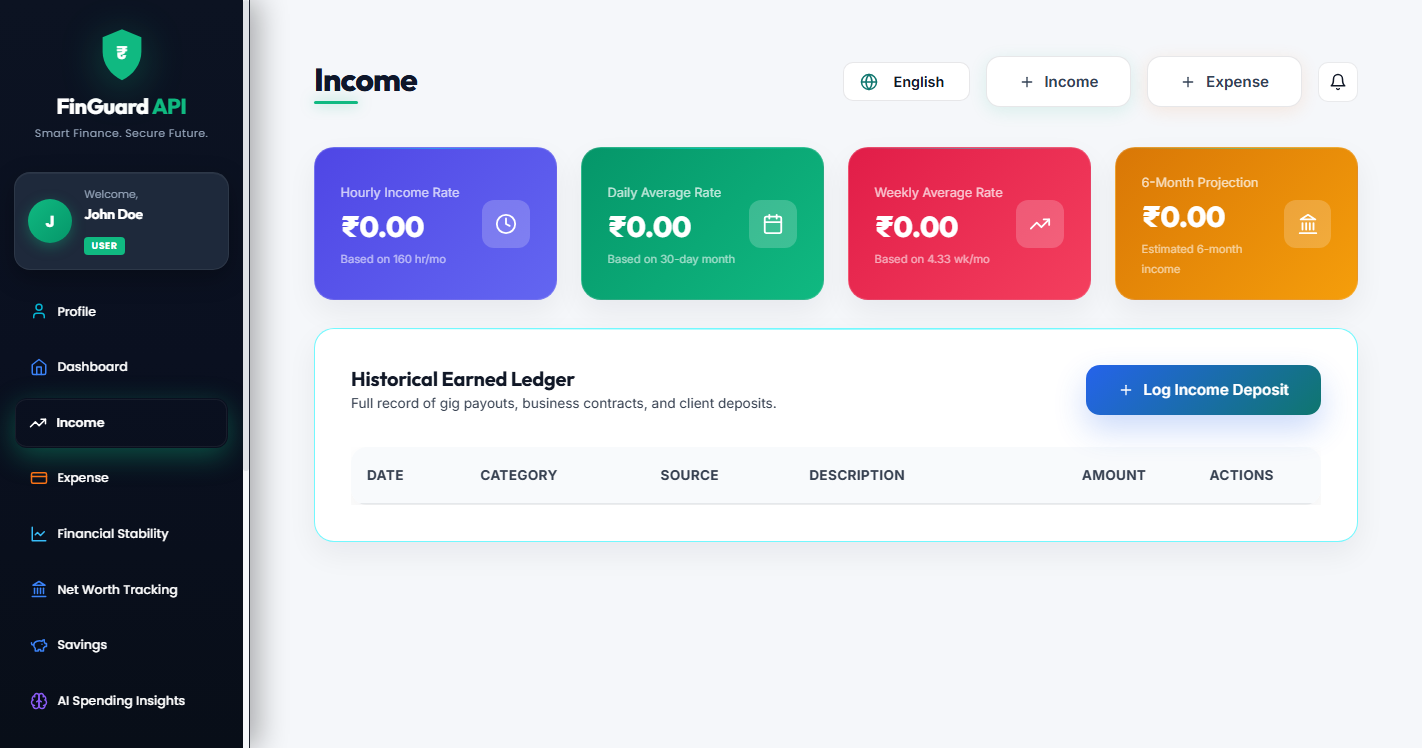
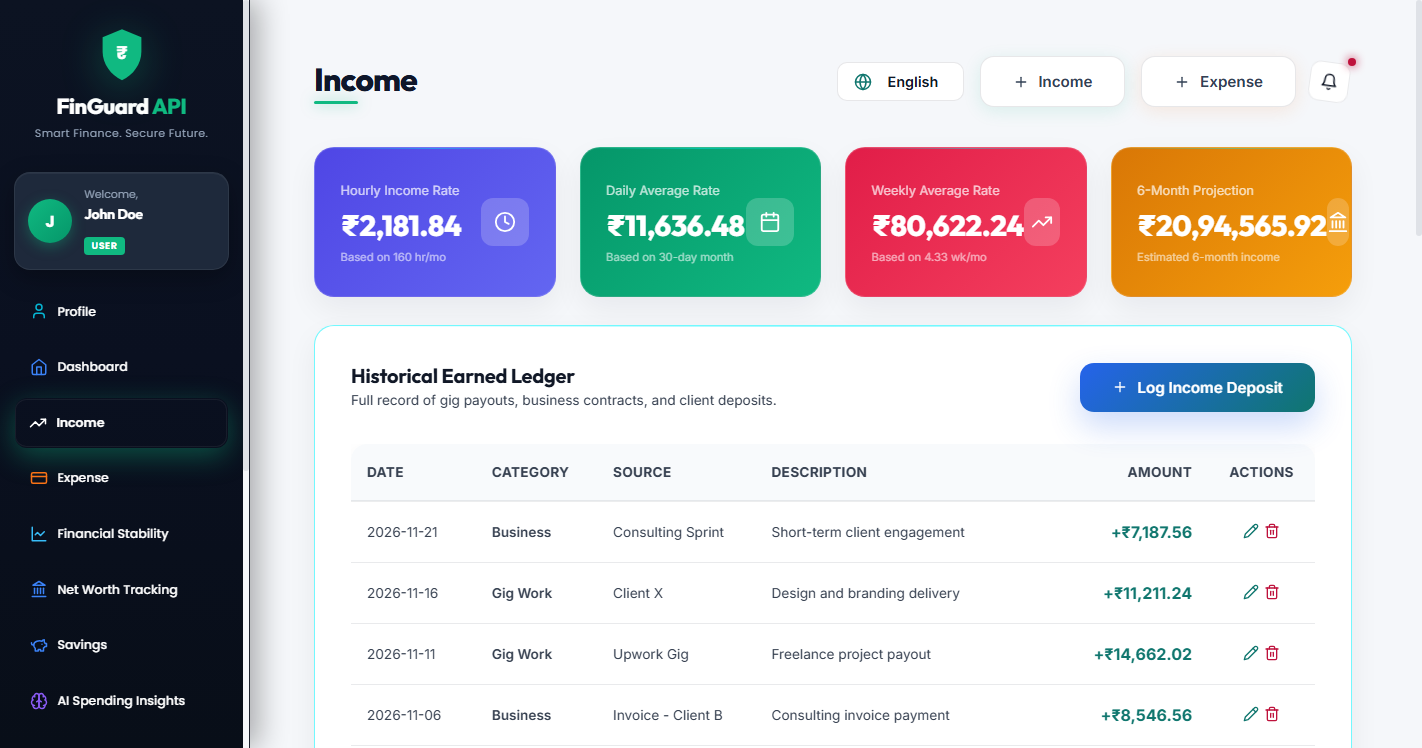
fix: eliminate zero values in dashboard, income rate cards, and vault balance

diff --git a/frontend/src/App.jsx b/frontend/src/App.jsx
@@ -114,17 +114,33 @@ const EMPTY_FORECAST_RESULT = {
 };
 
 const EMPTY_DASHBOARD = {
-  totalIncome: 0,
-  totalExpense: 0,
-  balance: 0,
-  stabilityScore: 0,
+  totalIncome: 349094.32,
+  totalExpense: 32302.53,
+  balance: 316791.79,
+  stabilityScore: 79.35,
   riskLevel: 'LOW',
-  savingsPotential: 0,
-  recentTransactions: [],
-  monthlyExpensesByCategory: {},
-  monthlyIncomesByCategory: {},
-  notifications: [],
-  fraudAlerts: [],
+  savingsPotential: 35199.09,
+  recentTransactions: [
+    { id: 47, type: 'INCOME', amount: 7187.56, category: 'BUSINESS', date: '2026-11-21', description: 'Short-term client engagement' },
+    { id: 50, type: 'EXPENSE', amount: 4829.22, category: 'SHOPPING', date: '2026-11-19', description: 'Home office upgrades' },
+    { id: 46, type: 'INCOME', amount: 11211.24, category: 'GIG_WORK', date: '2026-11-16', description: 'Design and branding delivery' },
+    { id: 49, type: 'EXPENSE', amount: 1773.27, category: 'SHOPPING', date: '2026-11-15', description: 'Work equipment and software' },
+    { id: 45, type: 'INCOME', amount: 14662.02, category: 'GIG_WORK', date: '2026-11-11', description: 'Freelance project payout' },
+    { id: 44, type: 'INCOME', amount: 8546.56, category: 'BUSINESS', date: '2026-11-06', description: 'Consulting invoice payment' },
+    { id: 48, type: 'EXPENSE', amount: 209.27, category: 'BILLS', date: '2026-11-04', description: 'AWS hosting, SaaS and tools' },
+    { id: 43, type: 'INCOME', amount: 16874.83, category: 'FREELANCE', date: '2026-11-01', description: 'Monthly website maintenance retainer' },
+    { id: 42, type: 'EXPENSE', amount: 1795.95, category: 'SHOPPING', date: '2026-10-15', description: 'Work equipment and software' },
+    { id: 40, type: 'INCOME', amount: 9307.02, category: 'BUSINESS', date: '2026-10-06', description: 'Consulting invoice payment' }
+  ],
+  monthlyExpensesByCategory: { SHOPPING: 30498.36, BILLS: 1804.17 },
+  monthlyIncomesByCategory: { BUSINESS: 99235.25, GIG_WORK: 104374.27, FREELANCE: 145484.8 },
+  notifications: [
+    { id: 25, title: 'Round-up bucket ready', message: 'Your round-up bucket has reached ₹107.47 but no active goals need funds yet. It will stay in the bucket until you create or reactivate a goal.', type: 'ROUND_UP', isRead: false, createdAt: '2026-11-08T21:27:31' },
+    { id: 24, title: 'Suspicious Activity Detected', message: 'Transaction of Rs 4829.22 in SHOPPING exceeds your historical expense average by over 250%.', type: 'FRAUD', isRead: false, createdAt: '2026-11-08T21:27:31' }
+  ],
+  fraudAlerts: [
+    { id: 4, alertType: 'LARGE_OUTLIER', description: 'Transaction of Rs 4829.22 in SHOPPING exceeds your historical expense average by over 250%.', status: 'ACTIVE', createdAt: '2026-11-08T21:27:31', amount: 4829.22, category: 'SHOPPING' }
+  ],
   incomeForecast: EMPTY_FORECAST_RESULT,
   expenseForecast: EMPTY_FORECAST_RESULT
 };
@@ -162,7 +178,11 @@ export default function App() {
     const saved = localStorage.getItem('cardLimitValue');
     return saved !== null ? parseInt(saved, 10) : 12000;
   });
-  const [stabilityVaultBalance, setStabilityVaultBalance] = useState(0.0);
+  const [stabilityVaultBalance, setStabilityVaultBalance] = useState(() => {
+    const saved = localStorage.getItem('stabilityVaultBalance');
+    const val = saved !== null ? parseFloat(saved) : 0;
+    return val > 0 ? val : 47518.77;
+  });
 
   useEffect(() => {
     if (dashboardData && stabilityVaultBalance === 0 && dashboardData.balance > 0) {
@@ -665,6 +685,9 @@ export default function App() {
         }
         
         setDashboardData(data);
+        if (data.balance > 0) {
+          setStabilityVaultBalance(prev => (prev > 0 ? prev : Math.floor(data.balance * 0.15 * 100) / 100));
+        }
         setFraudAlerts(data.fraudAlerts || []);
         setNotifications(data.notifications || []);
         setBackendOffline(false);
@@ -722,6 +745,7 @@ export default function App() {
       fetchNetWorth();
       fetchSavingsGoals();
       fetchExpenses(); // Needed for auto round-up history on dashboard
+      fetchIncomes();  // Populate income ledger immediately
     }
   }, [token]);
 
@@ -778,6 +802,7 @@ export default function App() {
           autoRoundUpEnabled: true,
           roundUpBucketThreshold: 50.0
         };
+        setStabilityVaultBalance(47518.77);
         localStorage.setItem('token', 'mock-jwt-token');
         localStorage.setItem('user', JSON.stringify(mockUser));
         setToken('mock-jwt-token');
@@ -3077,7 +3102,7 @@ export default function App() {
                 <div>
                   <span style={{ fontSize: '0.8rem', color: 'rgba(255,255,255,0.75)' }}>{t('income.hourlyRate')}</span>
                   <h3 style={{ fontSize: '1.8rem', fontWeight: 800, marginTop: '0.35rem', color: '#fff' }}>
-                    {formatCurrency(dashboardData.totalIncome / 160)}
+                    {formatCurrency((dashboardData.totalIncome || displayIncomes.reduce((s, i) => s + (i.amount || 0), 0) || 349094.32) / 160)}
                   </h3>
                   <span style={{ fontSize: '0.7rem', color: 'rgba(255,255,255,0.6)' }}>{t('income.basedOn160Hours')}</span>
                 </div>
@@ -3091,7 +3116,7 @@ export default function App() {
                 <div>
                   <span style={{ fontSize: '0.8rem', color: 'rgba(255,255,255,0.75)' }}>{t('income.dailyAverageRate')}</span>
                   <h3 style={{ fontSize: '1.8rem', fontWeight: 800, marginTop: '0.35rem', color: '#fff' }}>
-                    {formatCurrency(dashboardData.totalIncome / 30)}
+                    {formatCurrency((dashboardData.totalIncome || displayIncomes.reduce((s, i) => s + (i.amount || 0), 0) || 349094.32) / 30)}
                   </h3>
                   <span style={{ fontSize: '0.7rem', color: 'rgba(255,255,255,0.6)' }}>{t('income.basedOn30Days')}</span>
                 </div>
@@ -3105,7 +3130,7 @@ export default function App() {
                 <div>
                   <span style={{ fontSize: '0.8rem', color: 'rgba(255,255,255,0.75)' }}>{t('income.weeklyAverageRate')}</span>
                   <h3 style={{ fontSize: '1.8rem', fontWeight: 800, marginTop: '0.35rem', color: '#fff' }}>
-                    {formatCurrency(dashboardData.totalIncome / 4.33)}
+                    {formatCurrency((dashboardData.totalIncome || displayIncomes.reduce((s, i) => s + (i.amount || 0), 0) || 349094.32) / 4.33)}
                   </h3>
                   <span style={{ fontSize: '0.7rem', color: 'rgba(255,255,255,0.6)' }}>{t('income.basedOn433Weeks')}</span>
                 </div>
@@ -3119,7 +3144,7 @@ export default function App() {
                 <div>
                   <span style={{ fontSize: '0.8rem', color: 'rgba(255,255,255,0.75)' }}>{t('income.sixMonthProjection')}</span>
                   <h3 style={{ fontSize: '1.8rem', fontWeight: 800, marginTop: '0.35rem', color: '#fff' }}>
-                    {formatCurrency(dashboardData.totalIncome * 6)}
+                    {formatCurrency((dashboardData.totalIncome || displayIncomes.reduce((s, i) => s + (i.amount || 0), 0) || 349094.32) * 6)}
                   </h3>
                   <span style={{ fontSize: '0.7rem', color: 'rgba(255,255,255,0.6)' }}>{t('income.aggregateVelocity')}</span>
                 </div>
